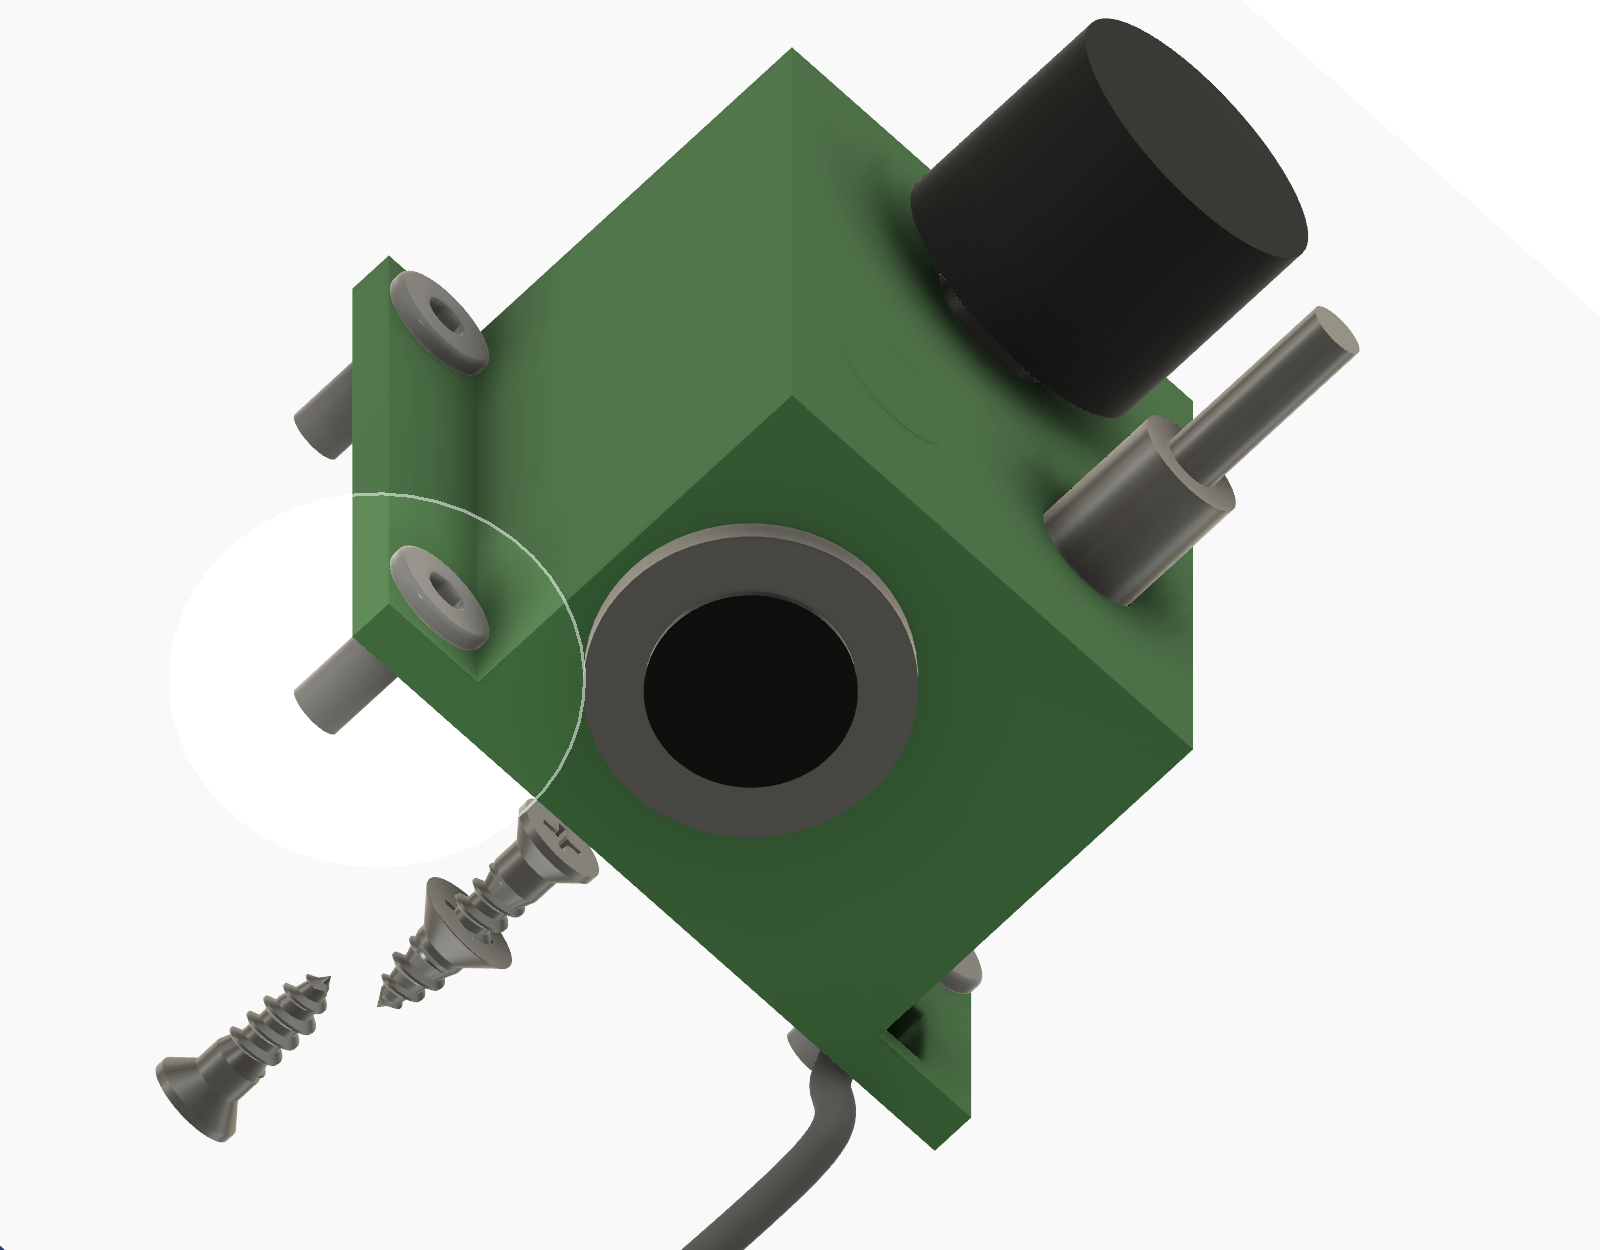
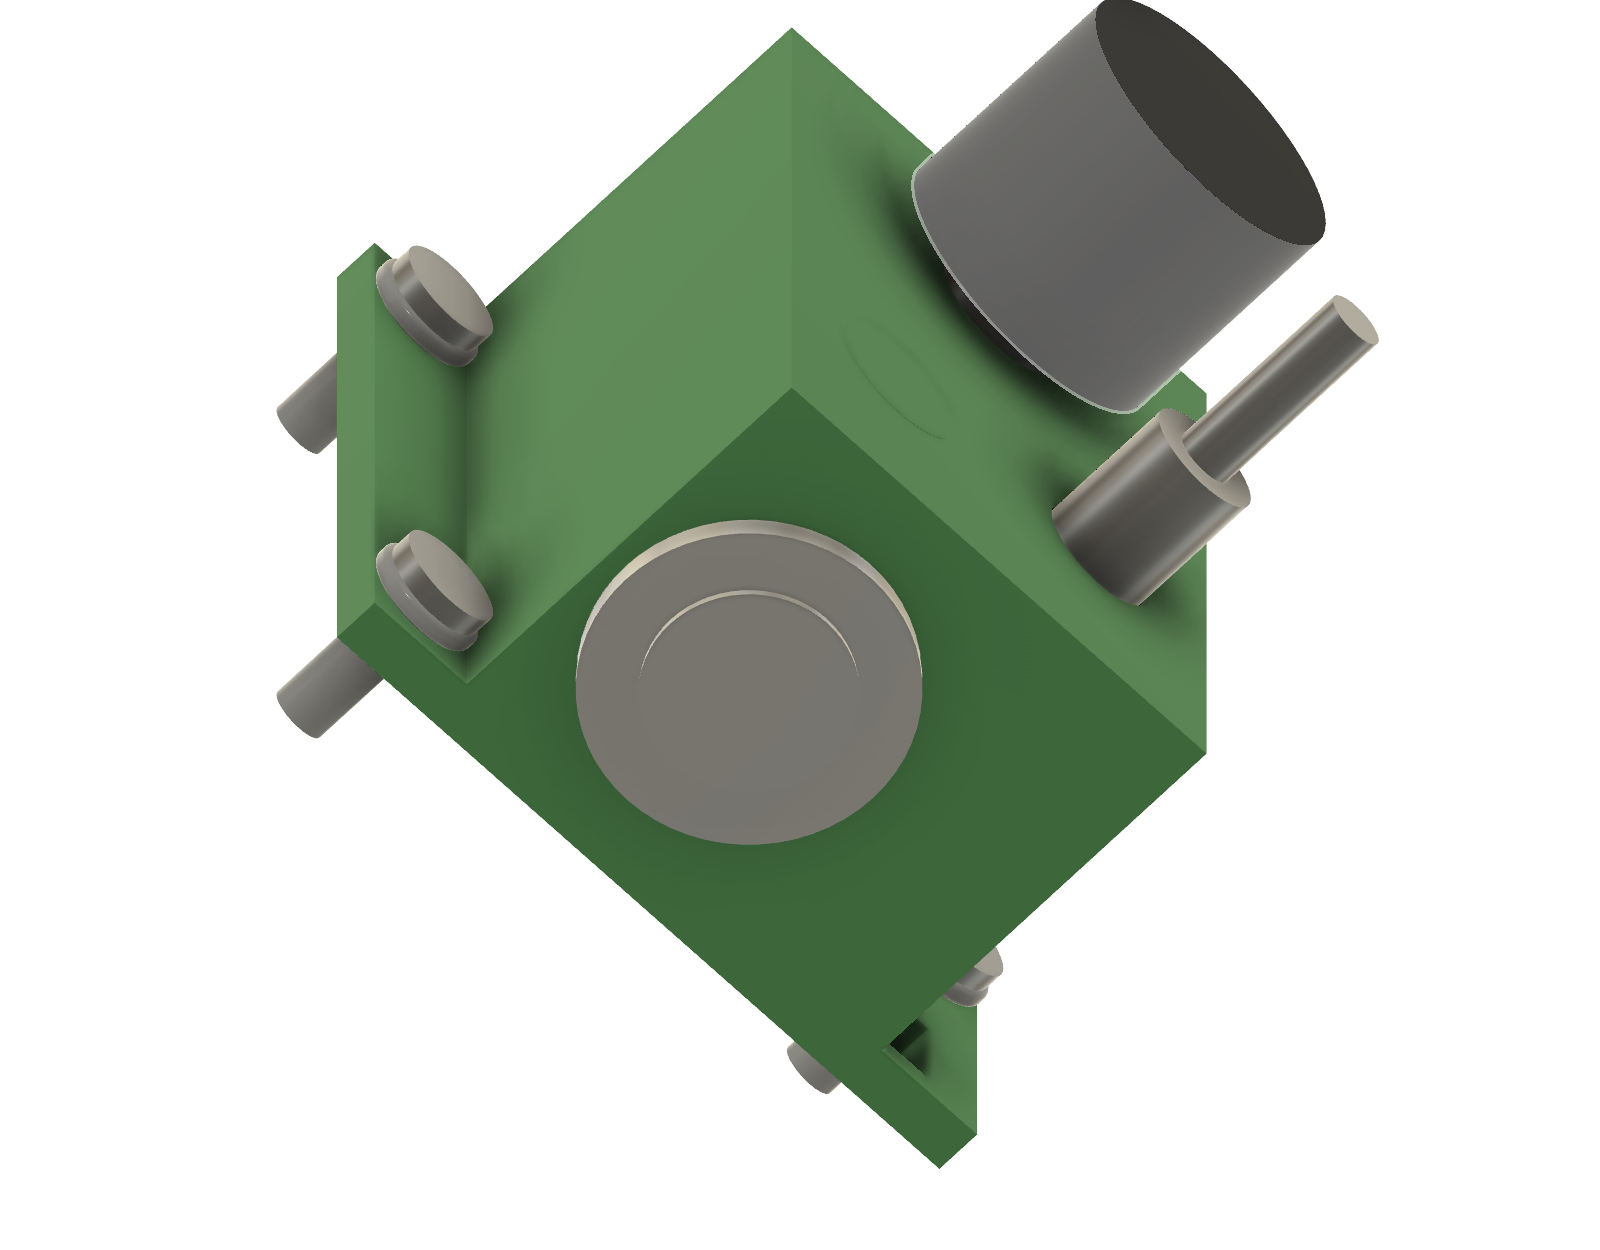
Show the 12 mm button as polished stainless in the pod render
Claude-Session: https://claude.ai/code/session_01GpjEXhgSr9i81TFkHYveKS

diff --git a/docs/assembly.md b/docs/assembly.md
@@ -31,7 +31,7 @@ The images show the 3/4" dowel setup. The 5/8" and 1/4" setups are the same with
 - **XIAO bottom row,** from the USB end: 5V red from D1's banded end (W3), GND with two blacks (W4 from the terminal, W11 to the pod), and 3V3 violet.
 - **R1** sits under heat-shrink on the orange wire's run up the right side.
 
-![Outside of the control pod: the 12 mm stainless button in the outer face, the knob and the toggle switch on the side face.](images/pod_button_outside.png)
+![Outside of the control pod: the polished 12 mm stainless button in the outer face, the knob and the toggle switch on the side face.](images/pod_button_outside.png)
 
 ![Inside the control pod: the button body and nut, the switch and pot, and the wires from the bundle.](images/pod_button_inside.png)
 
